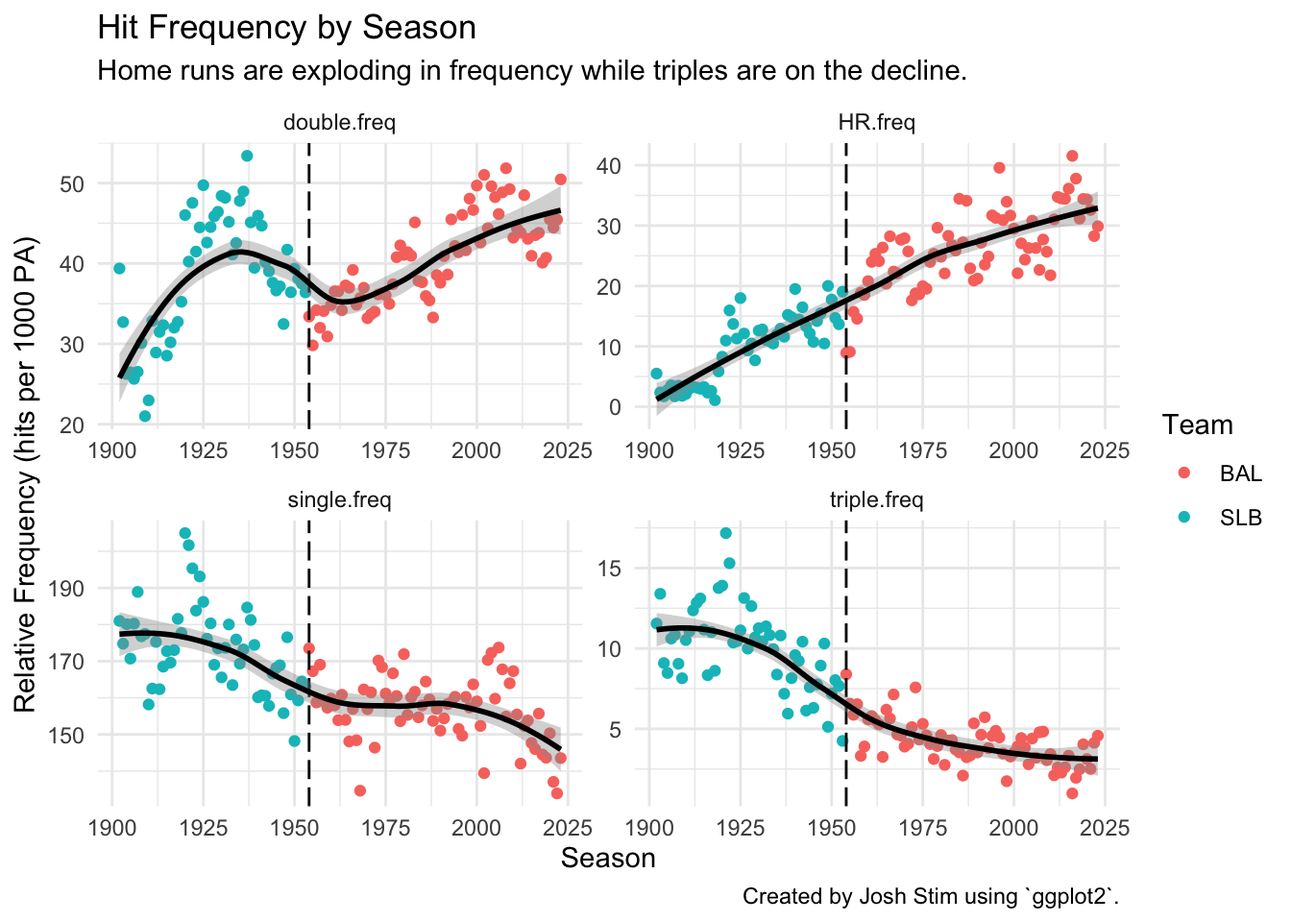
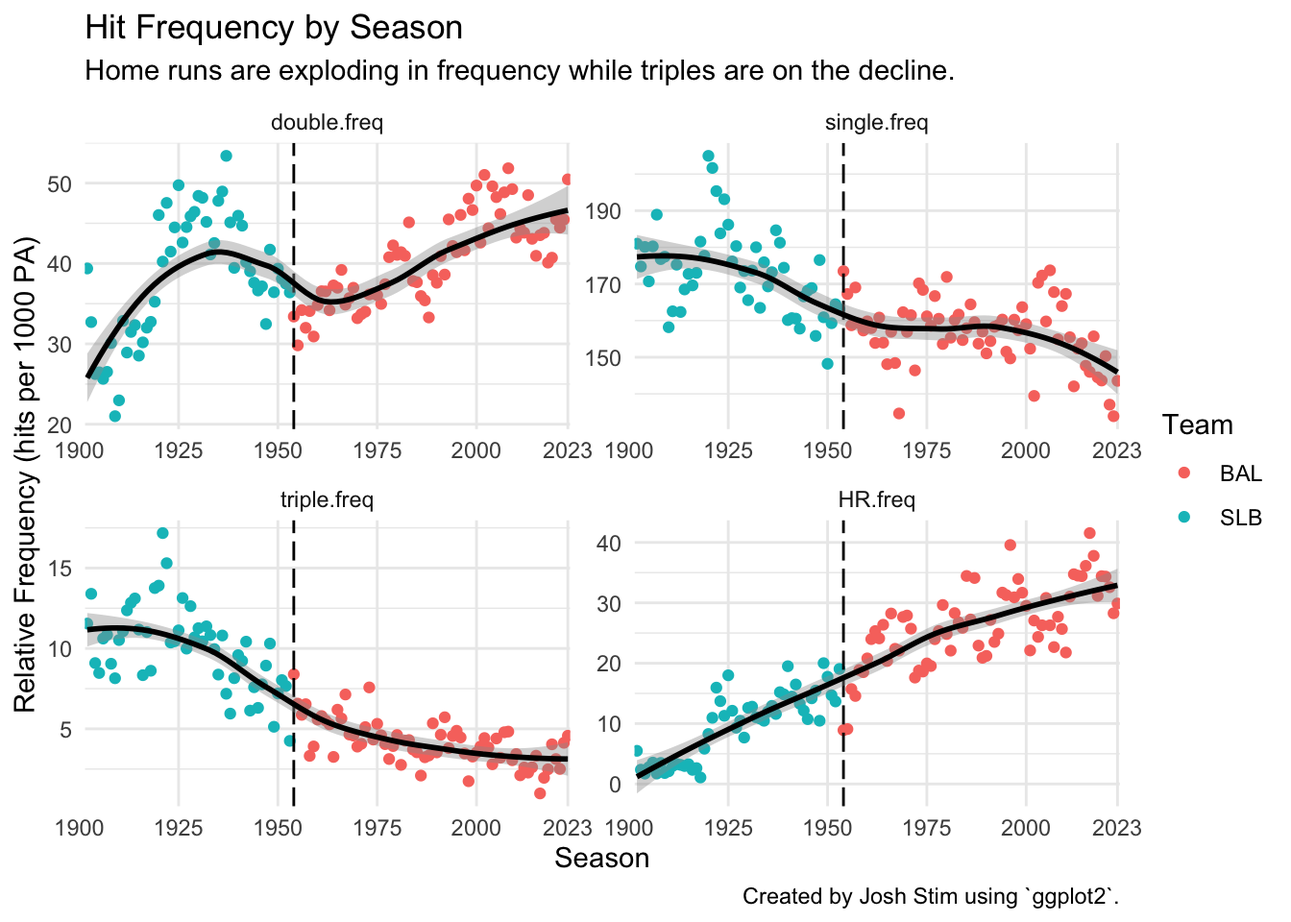
truncated x-axis on plots to exclude 2025

diff --git a/docs/example_analysis.html b/docs/example_analysis.html
@@ -453,11 +453,12 @@ Warning
 <span id="cb6-16"><a href="#cb6-16" aria-hidden="true" tabindex="-1"></a>  <span class="fu">stat_smooth</span>(<span class="fu">aes</span>(<span class="at">group =</span> <span class="dv">1</span>), <span class="at">method =</span> <span class="st">"loess"</span>, <span class="at">formula =</span> y <span class="sc">~</span> x, <span class="at">se =</span> <span class="cn">FALSE</span>, <span class="at">color =</span> <span class="st">"black"</span>) <span class="sc">+</span></span>
 <span id="cb6-17"><a href="#cb6-17" aria-hidden="true" tabindex="-1"></a>  <span class="fu">scale_color_manual</span>(<span class="at">values =</span> <span class="fu">c</span>(<span class="st">"black"</span>, <span class="st">"orange"</span>, <span class="st">"red"</span>), <span class="at">breaks=</span><span class="fu">c</span>(<span class="st">'World Series Champs'</span>, <span class="st">'Division Champs'</span>, <span class="st">'Wild Card'</span>)) <span class="sc">+</span></span>
 <span id="cb6-18"><a href="#cb6-18" aria-hidden="true" tabindex="-1"></a>  <span class="fu">labs</span>(<span class="at">title =</span> <span class="st">"Baltimore Orioles &amp; St. Louis Browns: Winning Percentage by Season"</span>,</span>
-<span id="cb6-19"><a href="#cb6-19" aria-hidden="true" tabindex="-1"></a>       <span class="at">subtitle =</span> <span class="st">"All World Series titles, division titles, and wild card wins occurred when the team was in Baltimore."</span>,</span>
+<span id="cb6-19"><a href="#cb6-19" aria-hidden="true" tabindex="-1"></a>       <span class="at">subtitle =</span> <span class="st">"All World Series, division titles, and wild card wins occurred when the team was in Baltimore."</span>,</span>
 <span id="cb6-20"><a href="#cb6-20" aria-hidden="true" tabindex="-1"></a>       <span class="at">caption =</span> <span class="st">"Created by Josh Stim using `ggplot2`."</span>,</span>
 <span id="cb6-21"><a href="#cb6-21" aria-hidden="true" tabindex="-1"></a>       <span class="at">y =</span> <span class="st">"Win Percentage (%)"</span>) <span class="sc">+</span></span>
-<span id="cb6-22"><a href="#cb6-22" aria-hidden="true" tabindex="-1"></a>  <span class="fu">theme_minimal</span>() <span class="sc">+</span></span>
-<span id="cb6-23"><a href="#cb6-23" aria-hidden="true" tabindex="-1"></a>  <span class="fu">theme</span>(<span class="at">legend.title =</span> <span class="fu">element_blank</span>())</span></code><button title="Copy to Clipboard" class="code-copy-button"><i class="bi"></i></button></pre></div>
+<span id="cb6-22"><a href="#cb6-22" aria-hidden="true" tabindex="-1"></a>  <span class="fu">scale_x_discrete</span>(<span class="at">limits =</span> <span class="fu">c</span>(<span class="fu">seq</span>(<span class="dv">1900</span>,<span class="dv">2000</span>,<span class="dv">25</span>), <span class="dv">2023</span>)) <span class="sc">+</span></span>
+<span id="cb6-23"><a href="#cb6-23" aria-hidden="true" tabindex="-1"></a>  <span class="fu">theme_minimal</span>() <span class="sc">+</span></span>
+<span id="cb6-24"><a href="#cb6-24" aria-hidden="true" tabindex="-1"></a>  <span class="fu">theme</span>(<span class="at">legend.title =</span> <span class="fu">element_blank</span>())</span></code><button title="Copy to Clipboard" class="code-copy-button"><i class="bi"></i></button></pre></div>
 </details>
 <div class="cell-output-display">
 <p><img src="example_analysis_files/figure-html/unnamed-chunk-5-1.png" class="img-fluid" width="672"></p>
@@ -475,16 +476,18 @@ Warning
 <span id="cb7-3"><a href="#cb7-3" aria-hidden="true" tabindex="-1"></a>  <span class="fu">pivot_longer</span>(<span class="at">cols =</span> <span class="fu">c</span>(single.freq, double.freq, triple.freq, HR.freq),</span>
 <span id="cb7-4"><a href="#cb7-4" aria-hidden="true" tabindex="-1"></a>               <span class="at">names_to =</span> <span class="st">"hit_type"</span>,</span>
 <span id="cb7-5"><a href="#cb7-5" aria-hidden="true" tabindex="-1"></a>               <span class="at">values_to =</span> <span class="st">"freq"</span>) <span class="sc">%&gt;%</span></span>
-<span id="cb7-6"><a href="#cb7-6" aria-hidden="true" tabindex="-1"></a>  <span class="fu">ggplot</span>(<span class="fu">aes</span>(<span class="at">x=</span>Season, <span class="at">y=</span>freq, <span class="at">color =</span> Team)) <span class="sc">+</span></span>
-<span id="cb7-7"><a href="#cb7-7" aria-hidden="true" tabindex="-1"></a>  <span class="fu">geom_point</span>() <span class="sc">+</span></span>
-<span id="cb7-8"><a href="#cb7-8" aria-hidden="true" tabindex="-1"></a>  <span class="fu">geom_vline</span>(<span class="at">xintercept =</span> <span class="dv">1954</span>, <span class="at">linetype =</span> <span class="st">"longdash"</span>) <span class="sc">+</span></span>
-<span id="cb7-9"><a href="#cb7-9" aria-hidden="true" tabindex="-1"></a>  <span class="fu">facet_wrap</span>(<span class="sc">~</span>hit_type, <span class="at">scales =</span> <span class="st">"free"</span>) <span class="sc">+</span></span>
-<span id="cb7-10"><a href="#cb7-10" aria-hidden="true" tabindex="-1"></a>  <span class="fu">geom_smooth</span>(<span class="at">color =</span> <span class="st">"black"</span>) <span class="sc">+</span></span>
-<span id="cb7-11"><a href="#cb7-11" aria-hidden="true" tabindex="-1"></a>  <span class="fu">labs</span>(<span class="at">title =</span> <span class="st">"Hit Frequency by Season"</span>,</span>
-<span id="cb7-12"><a href="#cb7-12" aria-hidden="true" tabindex="-1"></a>       <span class="at">subtitle =</span> <span class="st">"Home runs are exploding in frequency while triples are on the decline."</span>,</span>
-<span id="cb7-13"><a href="#cb7-13" aria-hidden="true" tabindex="-1"></a>       <span class="at">caption =</span> <span class="st">"Created by Josh Stim using `ggplot2`."</span>,</span>
-<span id="cb7-14"><a href="#cb7-14" aria-hidden="true" tabindex="-1"></a>       <span class="at">y =</span> <span class="st">"Relative Frequency (hits per 1000 PA)"</span>) <span class="sc">+</span></span>
-<span id="cb7-15"><a href="#cb7-15" aria-hidden="true" tabindex="-1"></a>  <span class="fu">theme_minimal</span>()</span></code><button title="Copy to Clipboard" class="code-copy-button"><i class="bi"></i></button></pre></div>
+<span id="cb7-6"><a href="#cb7-6" aria-hidden="true" tabindex="-1"></a>  <span class="fu">mutate</span>(<span class="at">hit_type =</span> <span class="fu">factor</span>(hit_type, <span class="at">levels =</span> <span class="fu">c</span>(<span class="st">"double.freq"</span>, <span class="st">"single.freq"</span>, <span class="st">"triple.freq"</span>, <span class="st">"HR.freq"</span>))) <span class="sc">%&gt;%</span></span>
+<span id="cb7-7"><a href="#cb7-7" aria-hidden="true" tabindex="-1"></a>  <span class="fu">ggplot</span>(<span class="fu">aes</span>(<span class="at">x=</span>Season, <span class="at">y=</span>freq, <span class="at">color =</span> Team)) <span class="sc">+</span></span>
+<span id="cb7-8"><a href="#cb7-8" aria-hidden="true" tabindex="-1"></a>  <span class="fu">geom_point</span>() <span class="sc">+</span></span>
+<span id="cb7-9"><a href="#cb7-9" aria-hidden="true" tabindex="-1"></a>  <span class="fu">geom_vline</span>(<span class="at">xintercept =</span> <span class="dv">1954</span>, <span class="at">linetype =</span> <span class="st">"longdash"</span>) <span class="sc">+</span></span>
+<span id="cb7-10"><a href="#cb7-10" aria-hidden="true" tabindex="-1"></a>  <span class="fu">facet_wrap</span>(<span class="sc">~</span>hit_type, <span class="at">scales =</span> <span class="st">"free"</span>) <span class="sc">+</span></span>
+<span id="cb7-11"><a href="#cb7-11" aria-hidden="true" tabindex="-1"></a>  <span class="fu">geom_smooth</span>(<span class="at">color =</span> <span class="st">"black"</span>) <span class="sc">+</span></span>
+<span id="cb7-12"><a href="#cb7-12" aria-hidden="true" tabindex="-1"></a>  <span class="fu">scale_x_discrete</span>(<span class="at">limits =</span> <span class="fu">c</span>(<span class="fu">seq</span>(<span class="dv">1900</span>,<span class="dv">2000</span>,<span class="dv">25</span>), <span class="dv">2023</span>)) <span class="sc">+</span></span>
+<span id="cb7-13"><a href="#cb7-13" aria-hidden="true" tabindex="-1"></a>  <span class="fu">labs</span>(<span class="at">title =</span> <span class="st">"Hit Frequency by Season"</span>,</span>
+<span id="cb7-14"><a href="#cb7-14" aria-hidden="true" tabindex="-1"></a>       <span class="at">subtitle =</span> <span class="st">"Home runs are exploding in frequency while triples are on the decline."</span>,</span>
+<span id="cb7-15"><a href="#cb7-15" aria-hidden="true" tabindex="-1"></a>       <span class="at">caption =</span> <span class="st">"Created by Josh Stim using `ggplot2`."</span>,</span>
+<span id="cb7-16"><a href="#cb7-16" aria-hidden="true" tabindex="-1"></a>       <span class="at">y =</span> <span class="st">"Relative Frequency (hits per 1000 PA)"</span>) <span class="sc">+</span></span>
+<span id="cb7-17"><a href="#cb7-17" aria-hidden="true" tabindex="-1"></a>  <span class="fu">theme_minimal</span>()</span></code><button title="Copy to Clipboard" class="code-copy-button"><i class="bi"></i></button></pre></div>
 </details>
 <div class="cell-output-display">
 <p><img src="example_analysis_files/figure-html/unnamed-chunk-6-1.png" class="img-fluid" width="672"></p>
@@ -601,36 +604,40 @@ Warning
 <span id="cb10-3"><a href="#cb10-3" aria-hidden="true" tabindex="-1"></a>  <span class="fu">geom_vline</span>(<span class="at">xintercept =</span> <span class="dv">1954</span>, <span class="at">linetype =</span> <span class="st">"longdash"</span>) <span class="sc">+</span></span>
 <span id="cb10-4"><a href="#cb10-4" aria-hidden="true" tabindex="-1"></a>  <span class="fu">geom_point</span>() <span class="sc">+</span></span>
 <span id="cb10-5"><a href="#cb10-5" aria-hidden="true" tabindex="-1"></a>  <span class="fu">geom_smooth</span>(<span class="at">method =</span> <span class="st">'loess'</span>, <span class="at">formula =</span> <span class="st">'y~x'</span>, <span class="at">color =</span> <span class="st">"black"</span>) <span class="sc">+</span></span>
-<span id="cb10-6"><a href="#cb10-6" aria-hidden="true" tabindex="-1"></a>  <span class="fu">theme_minimal</span>() <span class="sc">+</span></span>
-<span id="cb10-7"><a href="#cb10-7" aria-hidden="true" tabindex="-1"></a>  <span class="fu">theme</span>(<span class="at">legend.position =</span> <span class="st">"none"</span>)</span>
-<span id="cb10-8"><a href="#cb10-8" aria-hidden="true" tabindex="-1"></a></span>
+<span id="cb10-6"><a href="#cb10-6" aria-hidden="true" tabindex="-1"></a>  <span class="fu">scale_x_discrete</span>(<span class="at">limits =</span> <span class="fu">c</span>(<span class="fu">seq</span>(<span class="dv">1900</span>,<span class="dv">2000</span>,<span class="dv">25</span>), <span class="dv">2023</span>)) <span class="sc">+</span></span>
+<span id="cb10-7"><a href="#cb10-7" aria-hidden="true" tabindex="-1"></a>  <span class="fu">theme_minimal</span>() <span class="sc">+</span></span>
+<span id="cb10-8"><a href="#cb10-8" aria-hidden="true" tabindex="-1"></a>  <span class="fu">theme</span>(<span class="at">legend.position =</span> <span class="st">"none"</span>)</span>
 <span id="cb10-9"><a href="#cb10-9" aria-hidden="true" tabindex="-1"></a></span>
-<span id="cb10-10"><a href="#cb10-10" aria-hidden="true" tabindex="-1"></a>p.OBP <span class="ot">&lt;-</span> bmore.data.mod <span class="sc">%&gt;%</span></span>
-<span id="cb10-11"><a href="#cb10-11" aria-hidden="true" tabindex="-1"></a>  <span class="fu">ggplot</span>(<span class="fu">aes</span>(<span class="at">x =</span> Season, <span class="at">y =</span> OBP, <span class="at">color =</span> Team)) <span class="sc">+</span></span>
-<span id="cb10-12"><a href="#cb10-12" aria-hidden="true" tabindex="-1"></a>  <span class="fu">geom_vline</span>(<span class="at">xintercept =</span> <span class="dv">1954</span>, <span class="at">linetype =</span> <span class="st">"longdash"</span>) <span class="sc">+</span></span>
-<span id="cb10-13"><a href="#cb10-13" aria-hidden="true" tabindex="-1"></a>  <span class="fu">geom_point</span>() <span class="sc">+</span></span>
-<span id="cb10-14"><a href="#cb10-14" aria-hidden="true" tabindex="-1"></a>  <span class="fu">geom_smooth</span>(<span class="at">method =</span> <span class="st">'loess'</span>, <span class="at">formula =</span> <span class="st">'y~x'</span>, <span class="at">color =</span> <span class="st">"black"</span>) <span class="sc">+</span></span>
-<span id="cb10-15"><a href="#cb10-15" aria-hidden="true" tabindex="-1"></a>  <span class="fu">theme_minimal</span>()</span>
-<span id="cb10-16"><a href="#cb10-16" aria-hidden="true" tabindex="-1"></a></span>
-<span id="cb10-17"><a href="#cb10-17" aria-hidden="true" tabindex="-1"></a>p.SLG <span class="ot">&lt;-</span> bmore.data.mod <span class="sc">%&gt;%</span></span>
-<span id="cb10-18"><a href="#cb10-18" aria-hidden="true" tabindex="-1"></a>  <span class="fu">ggplot</span>(<span class="fu">aes</span>(<span class="at">x =</span> Season, <span class="at">y =</span> SLG, <span class="at">color =</span> Team)) <span class="sc">+</span></span>
-<span id="cb10-19"><a href="#cb10-19" aria-hidden="true" tabindex="-1"></a>  <span class="fu">geom_vline</span>(<span class="at">xintercept =</span> <span class="dv">1954</span>, <span class="at">linetype =</span> <span class="st">"longdash"</span>) <span class="sc">+</span></span>
-<span id="cb10-20"><a href="#cb10-20" aria-hidden="true" tabindex="-1"></a>  <span class="fu">geom_point</span>() <span class="sc">+</span></span>
-<span id="cb10-21"><a href="#cb10-21" aria-hidden="true" tabindex="-1"></a>  <span class="fu">geom_smooth</span>(<span class="at">method =</span> <span class="st">'loess'</span>, <span class="at">formula =</span> <span class="st">'y~x'</span>, <span class="at">color =</span> <span class="st">"black"</span>) <span class="sc">+</span></span>
-<span id="cb10-22"><a href="#cb10-22" aria-hidden="true" tabindex="-1"></a>  <span class="fu">theme_minimal</span>() <span class="sc">+</span></span>
-<span id="cb10-23"><a href="#cb10-23" aria-hidden="true" tabindex="-1"></a>  <span class="fu">theme</span>(<span class="at">legend.position =</span> <span class="st">"none"</span>)</span>
-<span id="cb10-24"><a href="#cb10-24" aria-hidden="true" tabindex="-1"></a></span>
-<span id="cb10-25"><a href="#cb10-25" aria-hidden="true" tabindex="-1"></a>p.OPS <span class="ot">&lt;-</span> bmore.data.mod <span class="sc">%&gt;%</span></span>
-<span id="cb10-26"><a href="#cb10-26" aria-hidden="true" tabindex="-1"></a>  <span class="fu">ggplot</span>(<span class="fu">aes</span>(<span class="at">x =</span> Season, <span class="at">y =</span> OPS, <span class="at">color =</span> Team)) <span class="sc">+</span></span>
-<span id="cb10-27"><a href="#cb10-27" aria-hidden="true" tabindex="-1"></a>  <span class="fu">geom_vline</span>(<span class="at">xintercept =</span> <span class="dv">1954</span>, <span class="at">linetype =</span> <span class="st">"longdash"</span>) <span class="sc">+</span></span>
-<span id="cb10-28"><a href="#cb10-28" aria-hidden="true" tabindex="-1"></a>  <span class="fu">geom_point</span>() <span class="sc">+</span></span>
-<span id="cb10-29"><a href="#cb10-29" aria-hidden="true" tabindex="-1"></a>  <span class="fu">geom_smooth</span>(<span class="at">method =</span> <span class="st">'loess'</span>, <span class="at">formula =</span> <span class="st">'y~x'</span>, <span class="at">color =</span> <span class="st">"black"</span>) <span class="sc">+</span></span>
-<span id="cb10-30"><a href="#cb10-30" aria-hidden="true" tabindex="-1"></a>  <span class="fu">theme_minimal</span>()</span>
-<span id="cb10-31"><a href="#cb10-31" aria-hidden="true" tabindex="-1"></a></span>
-<span id="cb10-32"><a href="#cb10-32" aria-hidden="true" tabindex="-1"></a>p.BA <span class="sc">+</span> p.OBP <span class="sc">+</span> p.SLG <span class="sc">+</span> p.OPS <span class="sc">+</span> <span class="fu">plot_layout</span>(<span class="at">ncol =</span> <span class="dv">2</span>, <span class="at">nrow =</span> <span class="dv">2</span>) <span class="sc">+</span> </span>
-<span id="cb10-33"><a href="#cb10-33" aria-hidden="true" tabindex="-1"></a>  <span class="fu">plot_annotation</span>(<span class="at">title =</span> <span class="st">"Overall Batting Performance by Season"</span>,</span>
-<span id="cb10-34"><a href="#cb10-34" aria-hidden="true" tabindex="-1"></a>                  <span class="at">subtitle =</span> <span class="st">"Observed increases in SLG and OPS over time, but not BA or OBP."</span>,</span>
-<span id="cb10-35"><a href="#cb10-35" aria-hidden="true" tabindex="-1"></a>                  <span class="at">caption =</span> <span class="st">"Created by Josh Stim using `ggplot2`."</span>)</span></code><button title="Copy to Clipboard" class="code-copy-button"><i class="bi"></i></button></pre></div>
+<span id="cb10-10"><a href="#cb10-10" aria-hidden="true" tabindex="-1"></a></span>
+<span id="cb10-11"><a href="#cb10-11" aria-hidden="true" tabindex="-1"></a>p.OBP <span class="ot">&lt;-</span> bmore.data.mod <span class="sc">%&gt;%</span></span>
+<span id="cb10-12"><a href="#cb10-12" aria-hidden="true" tabindex="-1"></a>  <span class="fu">ggplot</span>(<span class="fu">aes</span>(<span class="at">x =</span> Season, <span class="at">y =</span> OBP, <span class="at">color =</span> Team)) <span class="sc">+</span></span>
+<span id="cb10-13"><a href="#cb10-13" aria-hidden="true" tabindex="-1"></a>  <span class="fu">geom_vline</span>(<span class="at">xintercept =</span> <span class="dv">1954</span>, <span class="at">linetype =</span> <span class="st">"longdash"</span>) <span class="sc">+</span></span>
+<span id="cb10-14"><a href="#cb10-14" aria-hidden="true" tabindex="-1"></a>  <span class="fu">geom_point</span>() <span class="sc">+</span></span>
+<span id="cb10-15"><a href="#cb10-15" aria-hidden="true" tabindex="-1"></a>  <span class="fu">scale_x_discrete</span>(<span class="at">limits =</span> <span class="fu">c</span>(<span class="fu">seq</span>(<span class="dv">1900</span>,<span class="dv">2000</span>,<span class="dv">25</span>), <span class="dv">2023</span>)) <span class="sc">+</span></span>
+<span id="cb10-16"><a href="#cb10-16" aria-hidden="true" tabindex="-1"></a>  <span class="fu">geom_smooth</span>(<span class="at">method =</span> <span class="st">'loess'</span>, <span class="at">formula =</span> <span class="st">'y~x'</span>, <span class="at">color =</span> <span class="st">"black"</span>) <span class="sc">+</span></span>
+<span id="cb10-17"><a href="#cb10-17" aria-hidden="true" tabindex="-1"></a>  <span class="fu">theme_minimal</span>()</span>
+<span id="cb10-18"><a href="#cb10-18" aria-hidden="true" tabindex="-1"></a></span>
+<span id="cb10-19"><a href="#cb10-19" aria-hidden="true" tabindex="-1"></a>p.SLG <span class="ot">&lt;-</span> bmore.data.mod <span class="sc">%&gt;%</span></span>
+<span id="cb10-20"><a href="#cb10-20" aria-hidden="true" tabindex="-1"></a>  <span class="fu">ggplot</span>(<span class="fu">aes</span>(<span class="at">x =</span> Season, <span class="at">y =</span> SLG, <span class="at">color =</span> Team)) <span class="sc">+</span></span>
+<span id="cb10-21"><a href="#cb10-21" aria-hidden="true" tabindex="-1"></a>  <span class="fu">geom_vline</span>(<span class="at">xintercept =</span> <span class="dv">1954</span>, <span class="at">linetype =</span> <span class="st">"longdash"</span>) <span class="sc">+</span></span>
+<span id="cb10-22"><a href="#cb10-22" aria-hidden="true" tabindex="-1"></a>  <span class="fu">geom_point</span>() <span class="sc">+</span></span>
+<span id="cb10-23"><a href="#cb10-23" aria-hidden="true" tabindex="-1"></a>  <span class="fu">geom_smooth</span>(<span class="at">method =</span> <span class="st">'loess'</span>, <span class="at">formula =</span> <span class="st">'y~x'</span>, <span class="at">color =</span> <span class="st">"black"</span>) <span class="sc">+</span></span>
+<span id="cb10-24"><a href="#cb10-24" aria-hidden="true" tabindex="-1"></a>  <span class="fu">scale_x_discrete</span>(<span class="at">limits =</span> <span class="fu">c</span>(<span class="fu">seq</span>(<span class="dv">1900</span>,<span class="dv">2000</span>,<span class="dv">25</span>), <span class="dv">2023</span>)) <span class="sc">+</span></span>
+<span id="cb10-25"><a href="#cb10-25" aria-hidden="true" tabindex="-1"></a>  <span class="fu">theme_minimal</span>() <span class="sc">+</span></span>
+<span id="cb10-26"><a href="#cb10-26" aria-hidden="true" tabindex="-1"></a>  <span class="fu">theme</span>(<span class="at">legend.position =</span> <span class="st">"none"</span>)</span>
+<span id="cb10-27"><a href="#cb10-27" aria-hidden="true" tabindex="-1"></a></span>
+<span id="cb10-28"><a href="#cb10-28" aria-hidden="true" tabindex="-1"></a>p.OPS <span class="ot">&lt;-</span> bmore.data.mod <span class="sc">%&gt;%</span></span>
+<span id="cb10-29"><a href="#cb10-29" aria-hidden="true" tabindex="-1"></a>  <span class="fu">ggplot</span>(<span class="fu">aes</span>(<span class="at">x =</span> Season, <span class="at">y =</span> OPS, <span class="at">color =</span> Team)) <span class="sc">+</span></span>
+<span id="cb10-30"><a href="#cb10-30" aria-hidden="true" tabindex="-1"></a>  <span class="fu">geom_vline</span>(<span class="at">xintercept =</span> <span class="dv">1954</span>, <span class="at">linetype =</span> <span class="st">"longdash"</span>) <span class="sc">+</span></span>
+<span id="cb10-31"><a href="#cb10-31" aria-hidden="true" tabindex="-1"></a>  <span class="fu">geom_point</span>() <span class="sc">+</span></span>
+<span id="cb10-32"><a href="#cb10-32" aria-hidden="true" tabindex="-1"></a>  <span class="fu">scale_x_discrete</span>(<span class="at">limits =</span> <span class="fu">c</span>(<span class="fu">seq</span>(<span class="dv">1900</span>,<span class="dv">2000</span>,<span class="dv">25</span>), <span class="dv">2023</span>)) <span class="sc">+</span></span>
+<span id="cb10-33"><a href="#cb10-33" aria-hidden="true" tabindex="-1"></a>  <span class="fu">geom_smooth</span>(<span class="at">method =</span> <span class="st">'loess'</span>, <span class="at">formula =</span> <span class="st">'y~x'</span>, <span class="at">color =</span> <span class="st">"black"</span>) <span class="sc">+</span></span>
+<span id="cb10-34"><a href="#cb10-34" aria-hidden="true" tabindex="-1"></a>  <span class="fu">theme_minimal</span>()</span>
+<span id="cb10-35"><a href="#cb10-35" aria-hidden="true" tabindex="-1"></a></span>
+<span id="cb10-36"><a href="#cb10-36" aria-hidden="true" tabindex="-1"></a>p.BA <span class="sc">+</span> p.OBP <span class="sc">+</span> p.SLG <span class="sc">+</span> p.OPS <span class="sc">+</span> <span class="fu">plot_layout</span>(<span class="at">ncol =</span> <span class="dv">2</span>, <span class="at">nrow =</span> <span class="dv">2</span>) <span class="sc">+</span> </span>
+<span id="cb10-37"><a href="#cb10-37" aria-hidden="true" tabindex="-1"></a>  <span class="fu">plot_annotation</span>(<span class="at">title =</span> <span class="st">"Overall Batting Performance by Season"</span>,</span>
+<span id="cb10-38"><a href="#cb10-38" aria-hidden="true" tabindex="-1"></a>                  <span class="at">subtitle =</span> <span class="st">"Observed increases in SLG and OPS over time, but not BA or OBP."</span>,</span>
+<span id="cb10-39"><a href="#cb10-39" aria-hidden="true" tabindex="-1"></a>                  <span class="at">caption =</span> <span class="st">"Created by Josh Stim using `ggplot2`."</span>)</span></code><button title="Copy to Clipboard" class="code-copy-button"><i class="bi"></i></button></pre></div>
 </details>
 <div class="cell-output-display">
 <p><img src="example_analysis_files/figure-html/unnamed-chunk-9-1.png" class="img-fluid" width="672"></p>
@@ -655,11 +662,12 @@ Warning
 <span id="cb11-8"><a href="#cb11-8" aria-hidden="true" tabindex="-1"></a>  <span class="fu">geom_vline</span>(<span class="at">xintercept =</span> <span class="dv">1954</span>, <span class="at">linetype =</span> <span class="st">"longdash"</span>) <span class="sc">+</span></span>
 <span id="cb11-9"><a href="#cb11-9" aria-hidden="true" tabindex="-1"></a>  <span class="fu">facet_wrap</span>(<span class="sc">~</span>outcome, <span class="at">scales =</span> <span class="st">"free"</span>) <span class="sc">+</span></span>
 <span id="cb11-10"><a href="#cb11-10" aria-hidden="true" tabindex="-1"></a>  <span class="fu">geom_smooth</span>(<span class="at">color =</span> <span class="st">"black"</span>) <span class="sc">+</span></span>
-<span id="cb11-11"><a href="#cb11-11" aria-hidden="true" tabindex="-1"></a>  <span class="fu">labs</span>(<span class="at">title =</span> <span class="st">"Occurrences of Non-hit Batting Outcomes by Season"</span>,</span>
-<span id="cb11-12"><a href="#cb11-12" aria-hidden="true" tabindex="-1"></a>       <span class="at">subtitle =</span> <span class="st">"SO's and HBP are gaining in prevalence over time. IBB's peaked during team's 'Golden Age'."</span>,</span>
-<span id="cb11-13"><a href="#cb11-13" aria-hidden="true" tabindex="-1"></a>       <span class="at">caption =</span> <span class="st">"Created by Josh Stim using `ggplot2`."</span>,</span>
-<span id="cb11-14"><a href="#cb11-14" aria-hidden="true" tabindex="-1"></a>       <span class="at">y =</span> <span class="st">"Relative Frequency (Outcomes per 1000 PA)"</span>) <span class="sc">+</span></span>
-<span id="cb11-15"><a href="#cb11-15" aria-hidden="true" tabindex="-1"></a>  <span class="fu">theme_minimal</span>()</span></code><button title="Copy to Clipboard" class="code-copy-button"><i class="bi"></i></button></pre></div>
+<span id="cb11-11"><a href="#cb11-11" aria-hidden="true" tabindex="-1"></a>  <span class="fu">scale_x_discrete</span>(<span class="at">limits =</span> <span class="fu">c</span>(<span class="fu">seq</span>(<span class="dv">1900</span>,<span class="dv">2000</span>,<span class="dv">25</span>), <span class="dv">2023</span>)) <span class="sc">+</span></span>
+<span id="cb11-12"><a href="#cb11-12" aria-hidden="true" tabindex="-1"></a>  <span class="fu">labs</span>(<span class="at">title =</span> <span class="st">"Occurrences of Non-hit Batting Outcomes by Season"</span>,</span>
+<span id="cb11-13"><a href="#cb11-13" aria-hidden="true" tabindex="-1"></a>       <span class="at">subtitle =</span> <span class="st">"SO's and HBP are gaining in prevalence over time. IBB's peaked during team's 'Golden Age'."</span>,</span>
+<span id="cb11-14"><a href="#cb11-14" aria-hidden="true" tabindex="-1"></a>       <span class="at">caption =</span> <span class="st">"Created by Josh Stim using `ggplot2`."</span>,</span>
+<span id="cb11-15"><a href="#cb11-15" aria-hidden="true" tabindex="-1"></a>       <span class="at">y =</span> <span class="st">"Relative Frequency (Outcomes per 1000 PA)"</span>) <span class="sc">+</span></span>
+<span id="cb11-16"><a href="#cb11-16" aria-hidden="true" tabindex="-1"></a>  <span class="fu">theme_minimal</span>()</span></code><button title="Copy to Clipboard" class="code-copy-button"><i class="bi"></i></button></pre></div>
 </details>
 <div class="cell-output-display">
 <p><img src="example_analysis_files/figure-html/unnamed-chunk-10-1.png" class="img-fluid" width="672"></p>
@@ -701,7 +709,7 @@ Warning
 <ul>
 <li><p><code>readxl</code>: <code>read_excel()</code></p></li>
 <li><p><code>dplyr</code>: <code>glimpse()</code>, <code>mutate()</code>, <code>filter()</code>, <code>select()</code>, <code>pivot_longer()</code>, <code>arrange()</code>, <code>head()</code></p></li>
-<li><p><code>ggplot2</code>: <code>ggplot()</code>, <code>geom_point()</code>, <code>geom_smooth()</code>, <code>geom_hline()</code>, <code>geom_vline()</code>, <code>theme_minimal()</code>, <code>theme()</code>, <code>stat_smooth()</code>, <code>annotate()</code>, <code>scale_color_manual()</code></p></li>
+<li><p><code>ggplot2</code>: <code>ggplot()</code>, <code>geom_point()</code>, <code>geom_smooth()</code>, <code>geom_hline()</code>, <code>geom_vline()</code>, <code>theme_minimal()</code>, <code>theme()</code>, <code>stat_smooth()</code>, <code>annotate()</code>, <code>scale_color_manual()</code>, <code>scale_x_discrete()</code></p></li>
 <li><p><code>patchwork</code>: <code>plot_layout()</code>, <code>plot_annotation()</code></p></li>
 <li><p><code>knitr</code>: <code>kable()</code></p></li>
 </ul>
